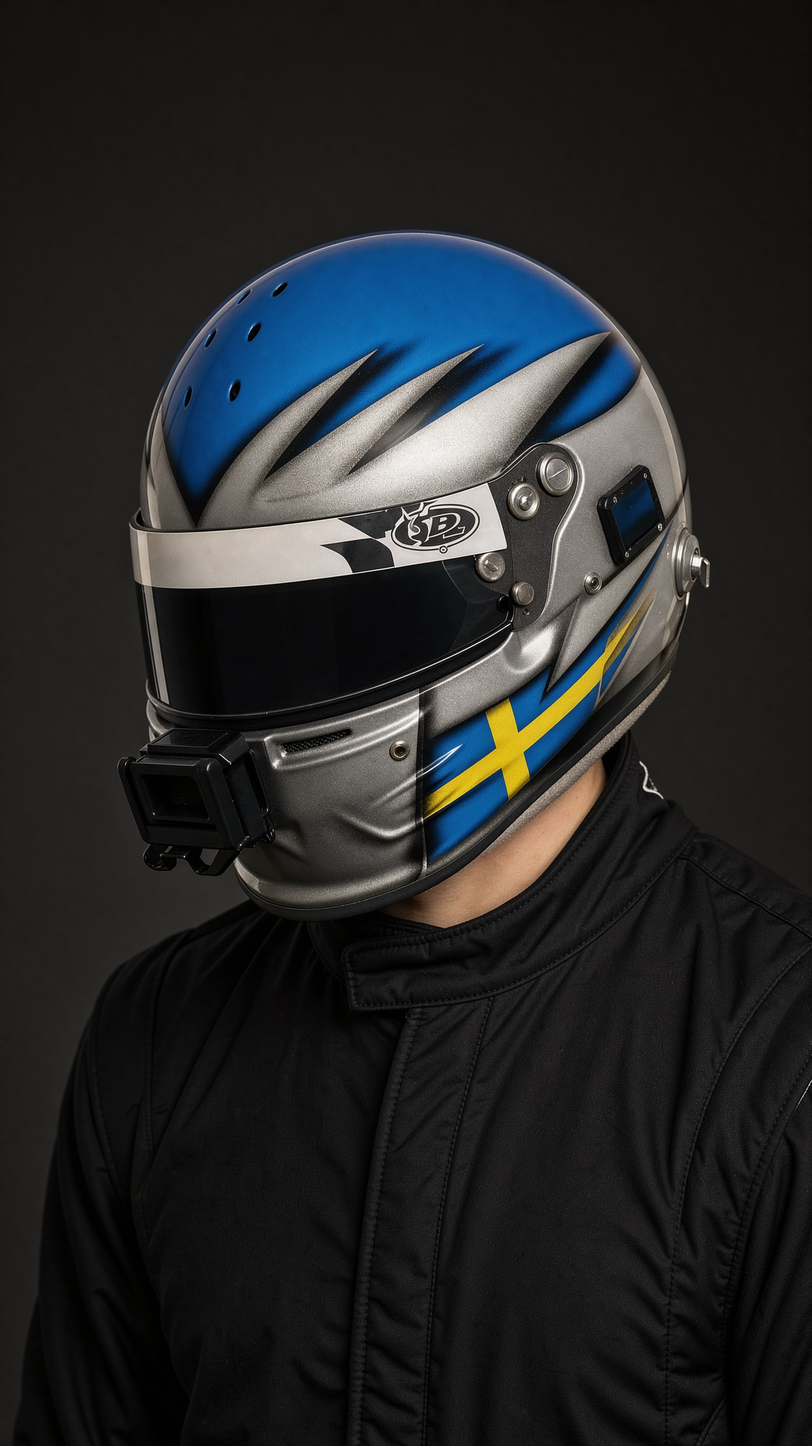
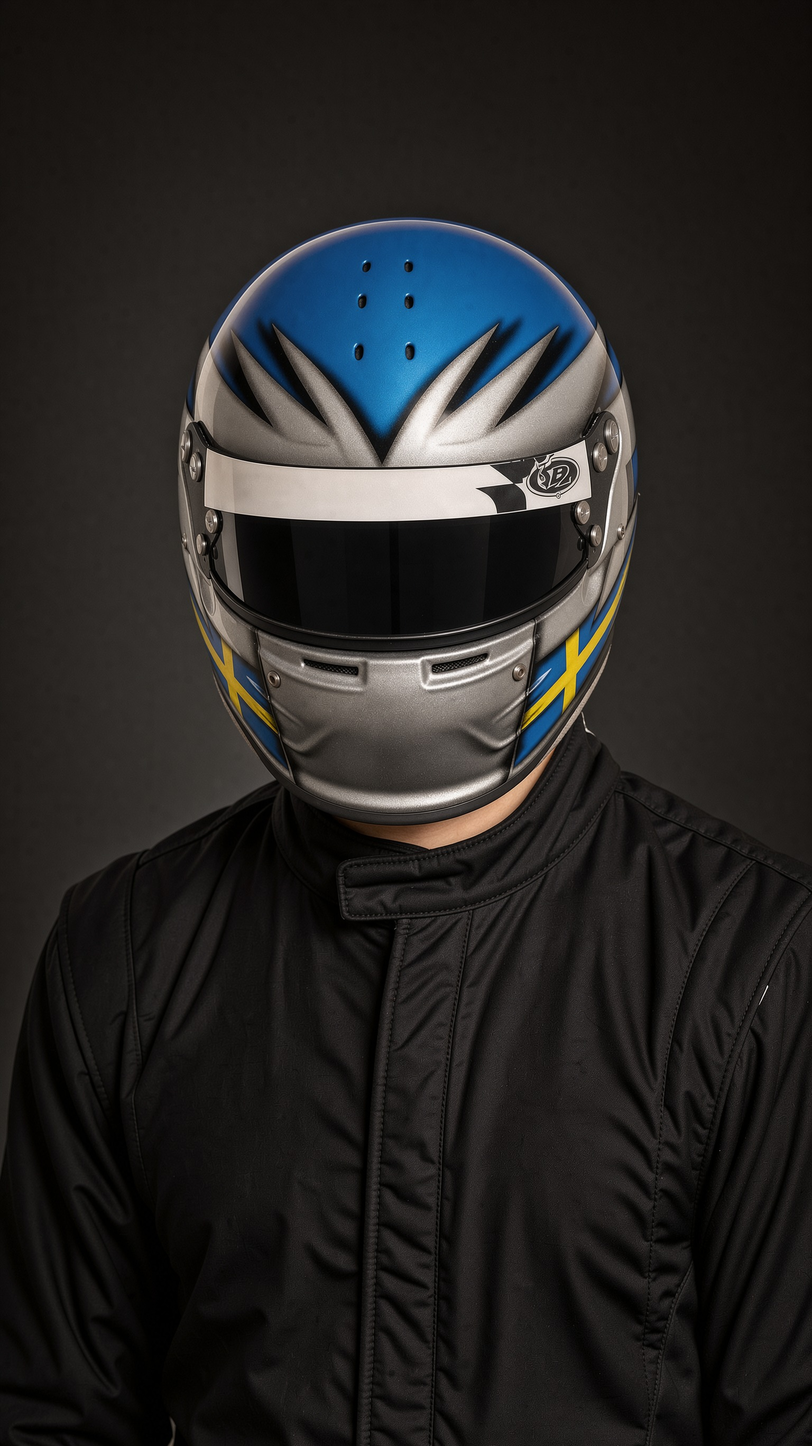
feat: frontal SE-hjälm→ansikte, bort GoPro (stilren)
Rakt framifrån; ingen GoPro/fäste på stills; gallery-5 bytt till stilren hjälm.
«gäster» fanns inte i copy. MERGA INTE.

diff --git a/src/lib/media.ts b/src/lib/media.ts
@@ -43,7 +43,7 @@ export const MEDIA_ITEMS: MediaItem[] = [
   },
   {
     src: "/images/gallery-5.png",
-    alt: { sv: "Hjälmen i närbild", en: "Helmet close-up" },
+    alt: { sv: "Hjälmen — stilren", en: "Helmet close-up" },
     caption: { sv: "Hjälmen · Sverige, 2026", en: "The helmet · Sweden, 2026" },
     width: 800,
     height: 800,

diff --git a/src/lib/ben-home.ts b/src/lib/ben-home.ts
@@ -125,7 +125,7 @@ export const JOURNEY: JourneyCard[] = [
     },
     image: {
       src: "/images/gallery-5.png",
-      alt: { sv: "Hjälmen i närbild", en: "Helmet close-up" },
+      alt: { sv: "Hjälmen — stilren", en: "Helmet close-up" },
     },
   },
 ];
